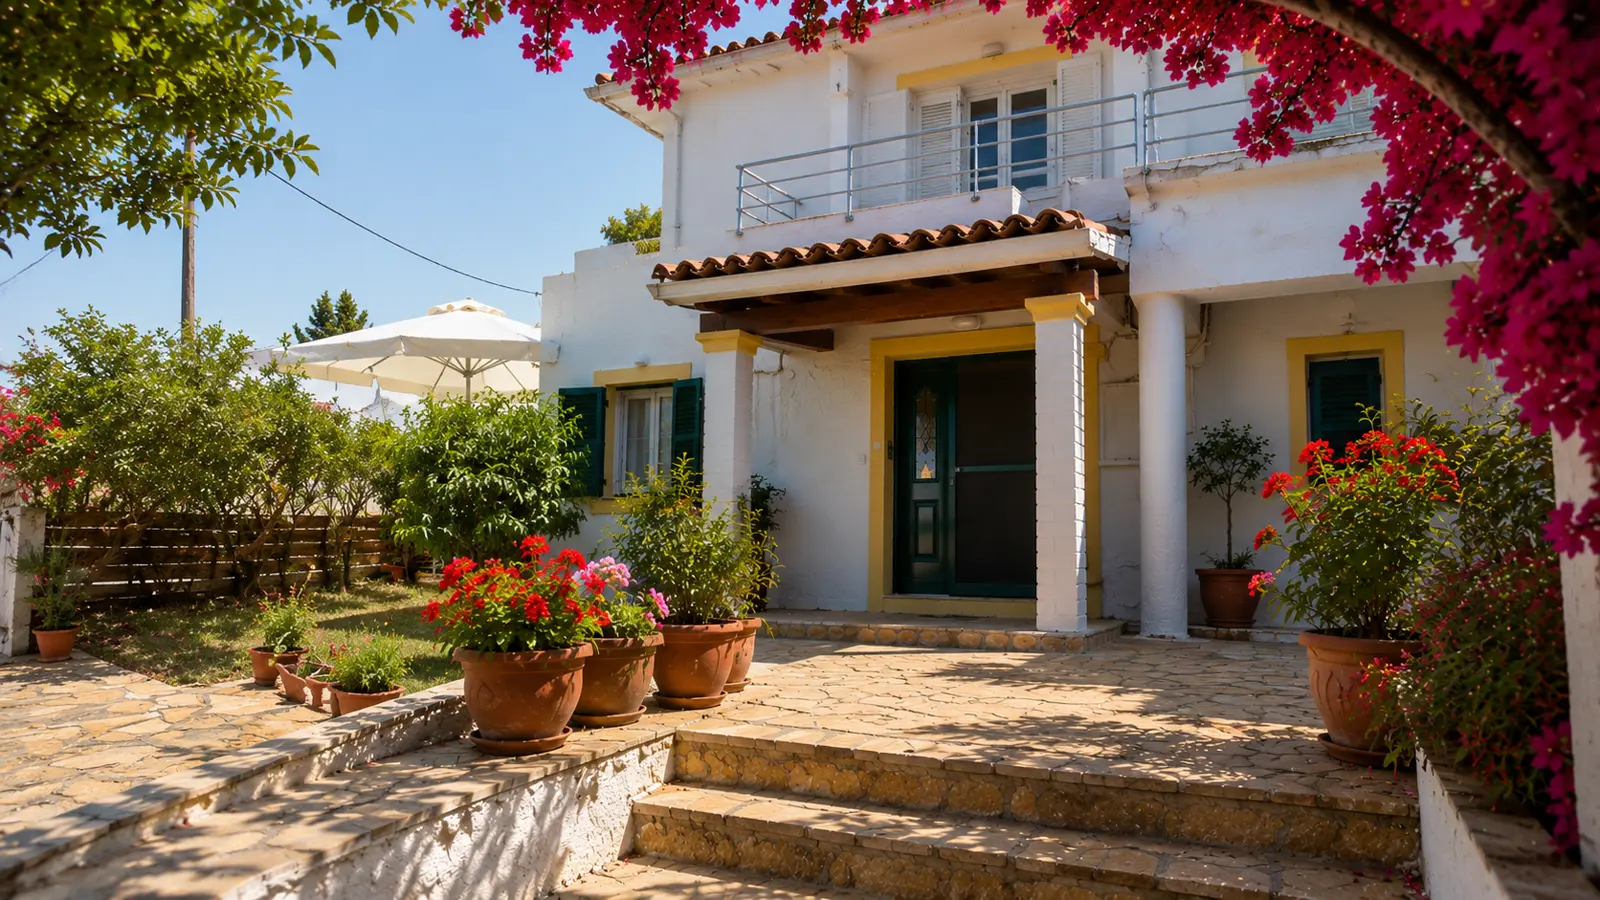
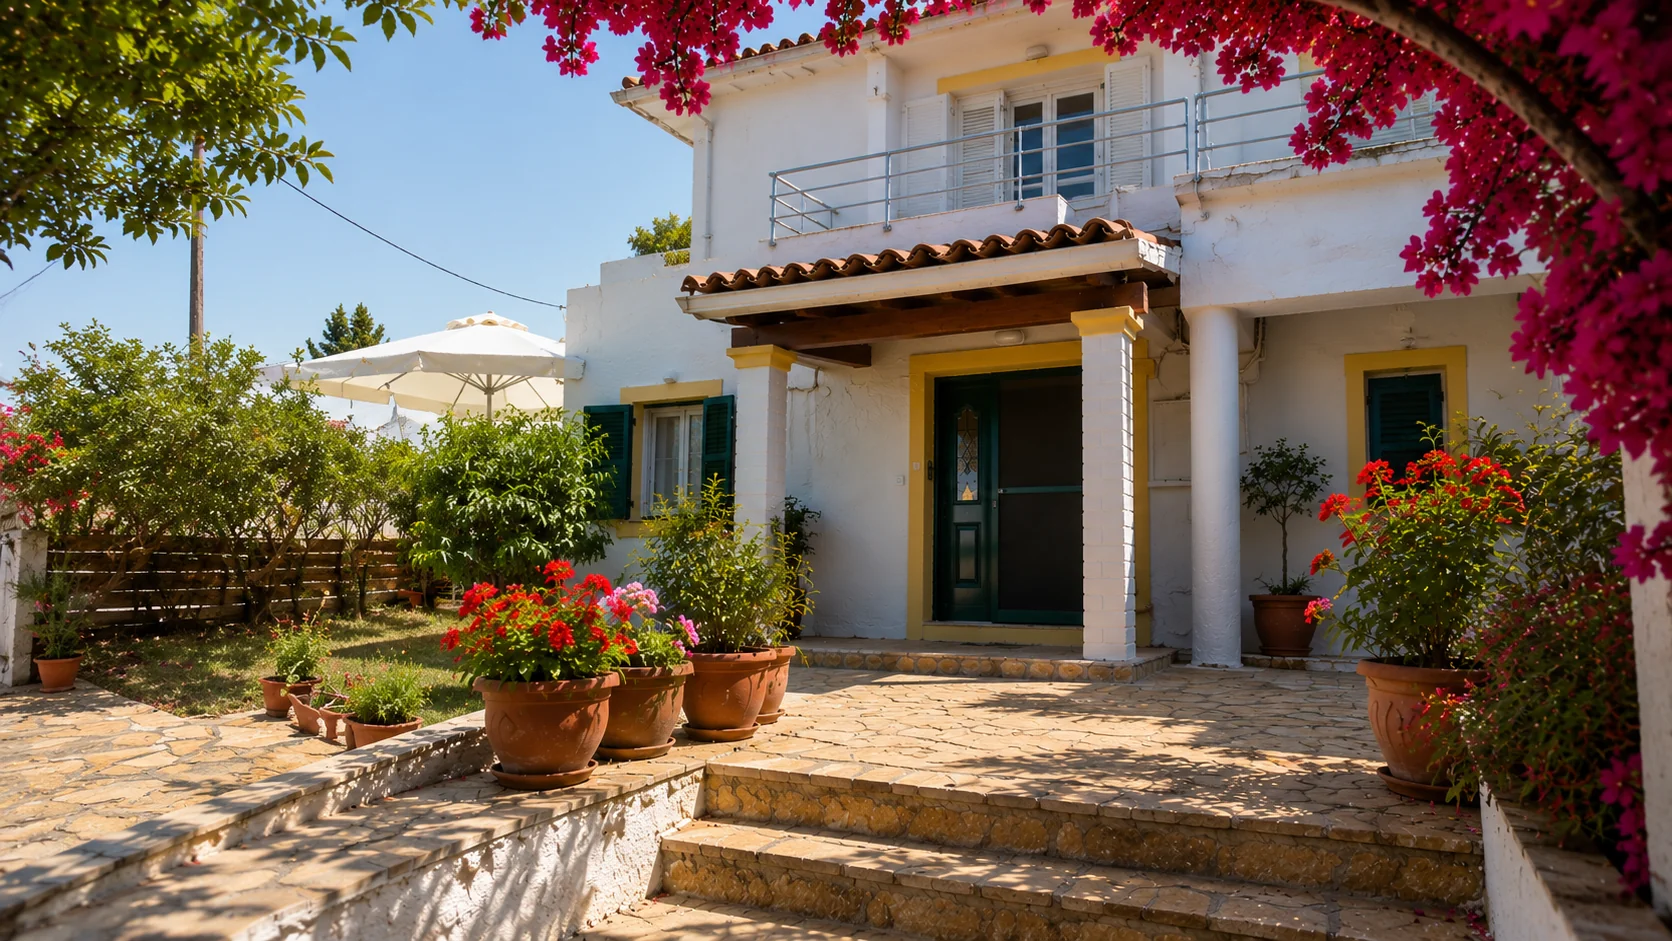
/

diff --git a/app/location/page.tsx b/app/location/page.tsx
@@ -1,27 +1,31 @@
+"use client";
+
+import { useState } from "react";
 import Header from "@/components/Header";
 import Footer from "@/components/Footer";
 
 const locations = [
   {
     name: "Villa Theo",
-    lat: "39.4273063",
-    lng: "19.9957696",
+    query: "39.4273063,19.9957696",
+    mapsUrl:
+      "https://www.google.com/maps/place/Villa+Theo/@39.4272638,19.9957461,55m/data=!3m1!1e3!4m15!1m5!3m4!2zMznCsDI1JzM4LjMiTiAxOcKwNTknNDQuOCJF!8m2!3d39.4273063!4d19.9957696!3m8!1s0x135c996a43164677:0x9a589f78910d86dc!5m2!4m1!1i2!8m2!3d39.4273063!4d19.9957696!16s%2Fg%2F11pz6mdz0v",
   },
   {
     name: "Theo Apartment",
-    lat: "39.4272542",
-    lng: "19.9957417",
+    query: "39.4272542,19.9957417",
+    mapsUrl: "https://www.google.com/maps/place/Theo+apartment/@39.4271839,19.9955716,55m/data=!3m1!1e3!4m12!1m5!3m4!2zMznCsDI1JzM4LjEiTiAxOcKwNTknNDQuNyJF!8m2!3d39.4272542!4d19.9957417!3m5!1s0x135c990059471b47:0xf0ed7be58288e600!8m2!3d39.4272542!4d19.9957417!16s%2Fg%2F11y32mdwnk?entry=ttu&g_ep=EgoyMDI2MDYyOC4wIKXMDSoASAFQAw%3D%3D",
   },
   {
     name: "Theo Two-Bedroom Apartment with Loft",
-    lat: "39.4272183",
-    lng: "19.9955022",
+    query: "Theo Two-Bedroom Apartment with Loft, Corfu",
+    mapsUrl:
+      "https://www.google.com/maps/place/Theo+Two-Bedroom+Apartment+with+Loft/@39.4272625,19.9957258,55m/data=!3m1!1e3!4m6!3m5!1s0x135c99007225d3a9:0x5c2578808c806e06!8m2!3d39.4272183!4d19.9955022!16s%2Fg%2F11yv_qpxc1?entry=ttu&g_ep=EgoyMDI2MDYyOC4wIKXMDSoASAFQAw%3D%3D",
   },
 ];
 
 export default function LocationPage() {
-  const centerLat = "39.4272542";
-  const centerLng = "19.9957417";
+  const [selectedLocation, setSelectedLocation] = useState(locations[0]);
 
   return (
     <>
@@ -74,7 +78,9 @@ export default function LocationPage() {
               }}
             >
               <iframe
-                src={`https://www.google.com/maps?q=${centerLat},${centerLng}&hl=en&z=18&output=embed`}
+                src={`https://www.google.com/maps?q=${encodeURIComponent(
+                  selectedLocation.query
+                )}&hl=en&z=19&output=embed`}
                 width="100%"
                 height="100%"
                 style={{ border: 0 }}
@@ -91,18 +97,26 @@ export default function LocationPage() {
               }}
             >
               {locations.map((location) => (
-                <a
+                <button
                   key={location.name}
-                  href={`https://www.google.com/maps?q=${location.lat},${location.lng}`}
-                  target="_blank"
-                  rel="noopener noreferrer"
+                  onClick={() => {
+                    setSelectedLocation(location);
+                    window.open(
+                      location.mapsUrl,
+                      "_blank",
+                      "noopener,noreferrer"
+                    );
+                  }}
                   style={{
-                    background: "white",
+                    background:
+                      selectedLocation.name === location.name ? "#efe6d8" : "white",
                     padding: "26px",
                     borderRadius: "8px",
                     border: "1px solid rgba(0,0,0,0.08)",
-                    textDecoration: "none",
                     color: "#1b1b1b",
+                    cursor: "pointer",
+                    textAlign: "left",
+                    font: "inherit",
                   }}
                 >
                   <h3
@@ -117,9 +131,9 @@ export default function LocationPage() {
                   </h3>
 
                   <p style={{ color: "#555", margin: 0 }}>
-                    Open in Google Maps →
+                    Show on map →
                   </p>
-                </a>
+                </button>
               ))}
             </div>
           </div>

diff --git a/app/experience/page.tsx b/app/experience/page.tsx
@@ -7,13 +7,13 @@ const experiences = [
     title: "Life on the Water",
     kicker: "Boat Trips",
     text: "Explore Corfu from the sea. Swim in crystal-clear waters, discover quiet bays, and enjoy the Ionian coastline from a completely different perspective.",
-    image: "/images/boattripl.png",
+    image: "/images/boattripl.webp",
   },
   {
     title: "Authentic Greek Cuisine",
     kicker: "Local Flavours",
     text: "Fresh seafood, traditional dishes, local olive oil and warm Greek hospitality. Corfu is full of flavours that turn simple moments into memories.",
-    image: "/images/rouvelasdish.png",
+    image: "/images/rouvelasdish.webp",
   },
   {
     title: "Hiking Through Nature",
@@ -25,13 +25,13 @@ const experiences = [
     title: "Hidden Beaches & Coves",
     kicker: "Hidden Gems",
     text: "Beyond the famous beaches, Corfu hides peaceful coves, quiet corners and unforgettable views waiting to be discovered.",
-    image: "/images/aigordis.jpg",
+    image: "/images/aigordis.webp",
   },
   {
     title: "Wine, Culture & Sunset Moments",
     kicker: "Island Evenings",
     text: "Golden skies, village walks, local wine and relaxed summer evenings. Some moments in Corfu stay with you long after you leave.",
-    image: "/images/theocomplexwinel.png",
+    image: "/images/theocomplexwinel.webp",
   },
 ];
 
